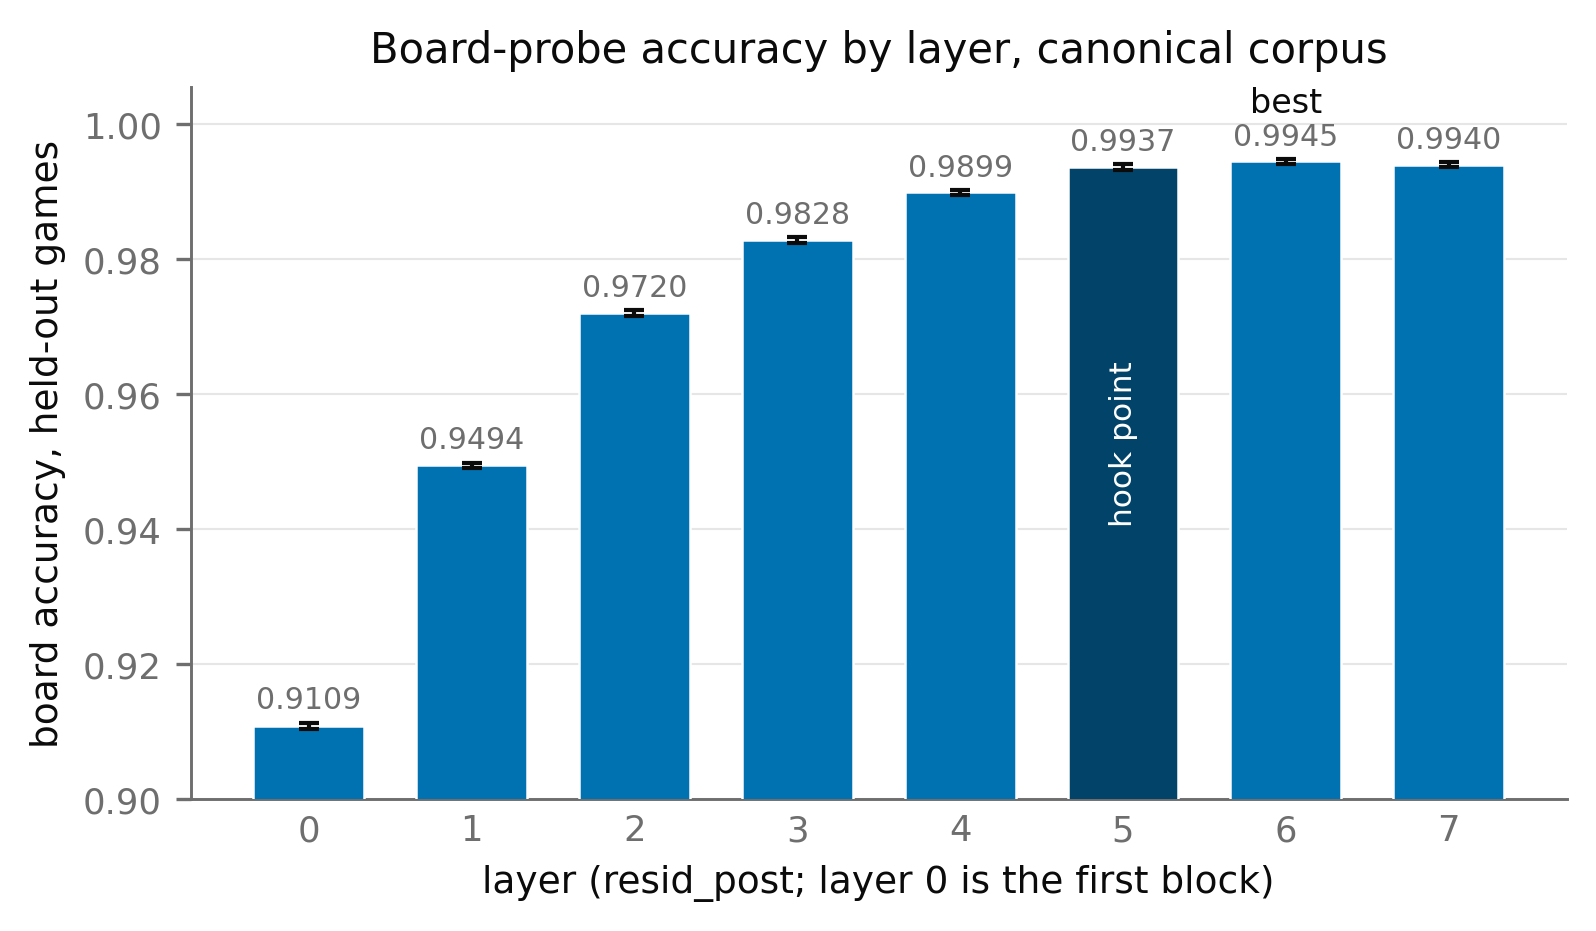
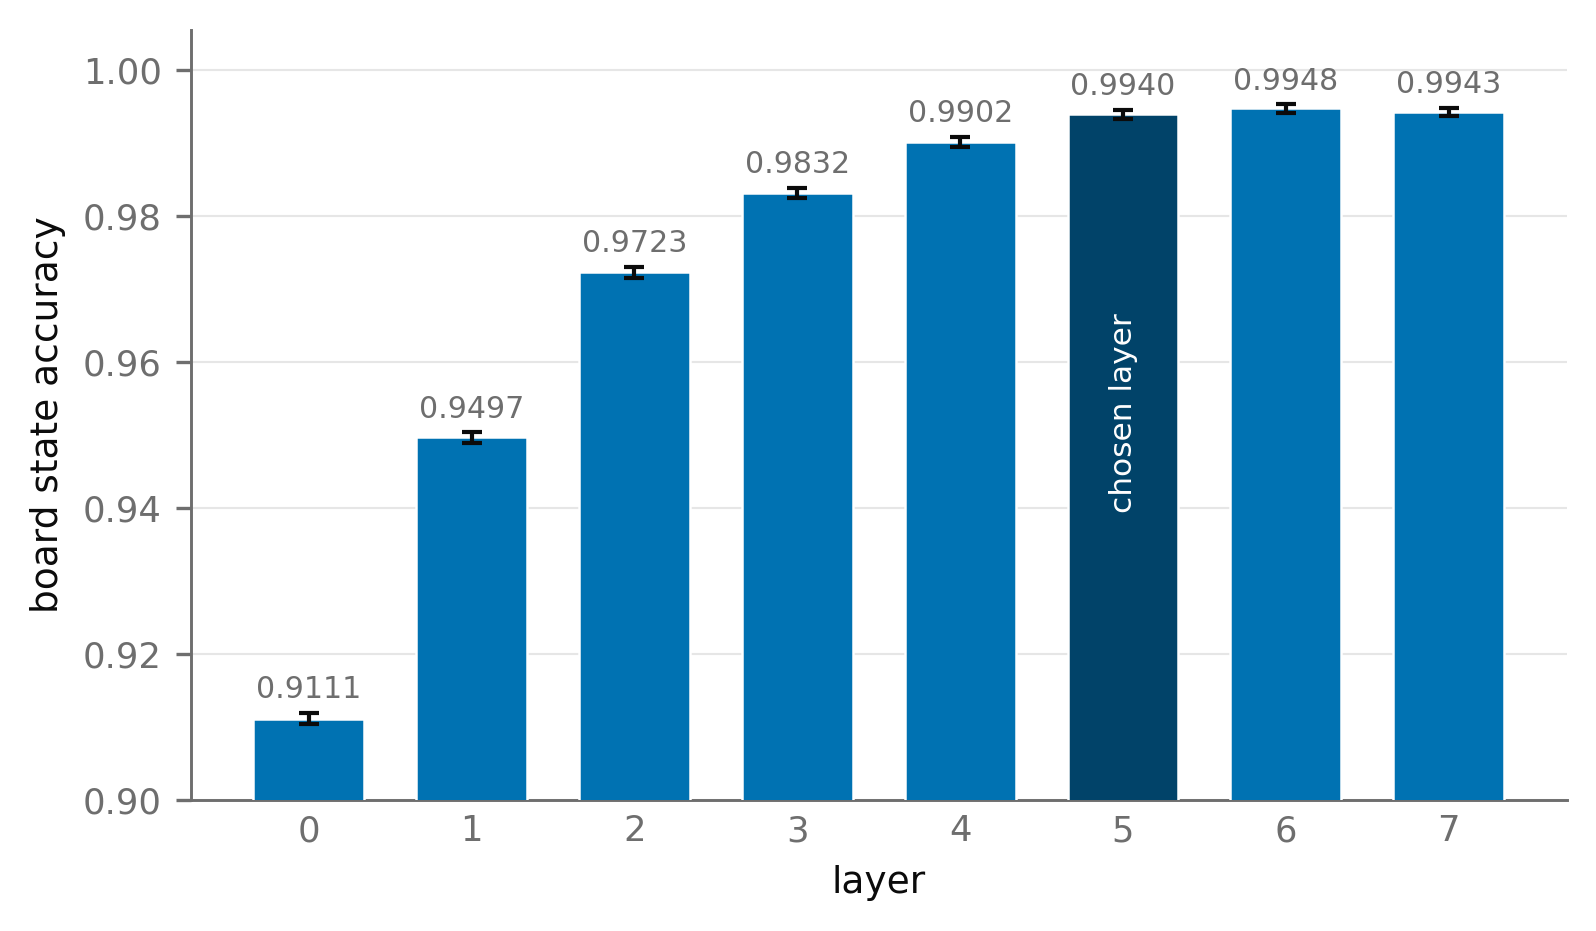
Score the board-probe sweep on 1,000 games, and strip the panel
The sweep scored all 3,000 test games; it now scores the first 1,000 of that
permuted split. Accuracies move by 2.5-3.5e-4 and the CIs widen by ~sqrt(3);
layer 6 still leads layer 5 by ~0.0008, so nothing downstream reads differently.

Title, the "best" mark on layer 6, and the axis qualifiers are gone, and the
layer-5 bar reads "chosen layer". That leaves the indexing base, the corpus and
the argmax off the canvas, so the study README opens with them as the caption.

diff --git a/analysis/board_probe_sweep/layer_sweep.py b/analysis/board_probe_sweep/layer_sweep.py
@@ -1,9 +1,10 @@
 """Where the board state is linearly readable, under the canonical probe.
 
-One bar per residual-stream layer: the accuracy of `probes.load.board(layer)` on the
-canonical corpus's test games, 3-way {empty, theirs, mine} over all 64 squares. The
-saved cards already carry a test accuracy; this re-measures it to attach an interval
-and a null, neither of which a single scalar per layer can supply.
+One bar per residual-stream layer: the accuracy of `probes.load.board(layer)` on 1,000
+of the canonical corpus's test games, 3-way {empty, theirs, mine} over all 64 squares.
+The saved cards already carry a test accuracy over the whole test split; this
+re-measures it to attach an interval and a null, neither of which a single scalar per
+layer can supply.
 
 Positions inside a game share a board, so the interval is a cluster bootstrap over
 test GAMES, not over rows. The null is the per-square majority class, fit on the train
@@ -32,6 +33,7 @@ from spade.probes.train import BATCH, activations, corpus, game_split, rows
 HERE = Path(__file__).resolve().parent
 LAYERS = range(8)
 SEED = 42
+N_TEST_GAMES = 1000     # of the split's 3000; the head of a permutation, so still uniform
 N_BOOT = 1000
 
 
@@ -68,6 +70,7 @@ def majority_null(y: torch.Tensor, train: torch.Tensor, test: torch.Tensor,
 def measure(device: str) -> pd.DataFrame:
     y, games, n_games = corpus()
     fit_games, _, test_games = game_split(n_games, SEED)
+    test_games = test_games[:N_TEST_GAMES]
     train, test = rows(games, fit_games), rows(games, test_games)
     game_of_row, uniq = pd.factorize(games[test].numpy())
     totals = np.bincount(game_of_row, weights=np.full(len(test), y.shape[1]),
@@ -117,20 +120,16 @@ def draw(table: pd.DataFrame, camera_ready: bool) -> Path:
         ax.text(r.layer, r.hi + 0.0012, f"{r.accuracy:.4f}", ha="center", va="bottom",
                 fontsize=7.2, color=MUTED, zorder=4)
 
-    best = bars.loc[bars.accuracy.idxmax()]
-    ax.text(best.layer, 1.0032, "best", ha="center", va="center", fontsize=8, color=INK)
     ax.text(probes.LAYER, bars.accuracy.min() * 0.5 + 0.5 * bars.accuracy.max(),
-            "hook point", rotation=90, ha="center", va="center", fontsize=7.5,
+            "chosen layer", rotation=90, ha="center", va="center", fontsize=7.5,
             color="white", zorder=5)
 
     ax.set_ylim(0.90, 1.0055)
     ax.set_xticks(list(LAYERS))
-    ax.set_xlabel("layer (resid_post; layer 0 is the first block)")
-    ax.set_ylabel("board accuracy, held-out games")
+    ax.set_xlabel("layer")
+    ax.set_ylabel("board state accuracy")
     ax.grid(axis="x", visible=False)
     ax.tick_params(axis="x", length=0)
-    if not camera_ready:
-        ax.set_title("Board-probe accuracy by layer, canonical corpus")
     fig.tight_layout()
     return save_figure(fig, HERE / "figures" / "board_layer_sweep", camera_ready)
 

diff --git a/analysis/board_probe_sweep/README.md b/analysis/board_probe_sweep/README.md
@@ -2,8 +2,10 @@
 
 Where in OthelloGPT's residual stream is the board state linearly readable, measured
 with the probes every study in this repo now reads through `spade.probes.load.board`.
-One bar per `resid_post` layer; 3-way {empty, theirs, mine} accuracy over all 64
-squares, mover-relative, on the canonical corpus's held-out **games**.
+One bar per `resid_post` layer, **layer 0 being the first block**; 3-way {empty, theirs,
+mine} accuracy over all 64 squares, mover-relative, on **n = 1,000 held-out games**
+(58,000 positions). The panel carries no title and states the indexing base nowhere on
+its axes, so this paragraph is its caption.
 
 This is the canonical-probe answer to the question `analysis/linear_probe/` asked with
 the retired ARENA fit. That study stays as the record of what it measured (0.9919 at
@@ -15,9 +17,9 @@ probe anything currently loads.
 ## What is measured
 
 `probes.load.board(layer)` is loaded, not refit. Its saved card already carries a test
-accuracy, and this study reproduces it (`card_test_accuracy` in the CSV is that number,
-beside the one measured here) — the point of re-measuring is the two things a scalar
-cannot carry:
+accuracy over the full 3,000-game split (`card_test_accuracy` in the CSV, beside the one
+measured here); the two agree to 2.5-3.5 x 10^-4 at every layer, which is the subsample's
+own noise. The point of re-measuring is the two things a scalar cannot carry:
 
 - **An interval.** Positions inside a game share a board, so the bootstrap resamples
   **test games**, not rows. 1,000 resamples, 95% percentile CI.
@@ -26,7 +28,9 @@ cannot carry:
   would make it a ceiling.
 
 The split is `probes.train.game_split` at seed 42 — the same partition the probes were
-fit under, so the test games here are test games there.
+fit under, so the test games here are test games there. `N_TEST_GAMES = 1000` takes the
+head of that split's 3,000; the split is a permutation, so the head is already a uniform
+random subsample and needs no second draw.
 
 ## The cut baseline, and why
 
@@ -46,9 +50,10 @@ row in the CSV rather than a line on the panel.
 
 - Bars are the canonical board probe at each layer, one hue: it is one probe class over
   eight input spaces, not eight conditions.
-- **Layer 5 is drawn darker** — the project's hook point, not the argmax. Layer 6 is the
-  argmax and beats it by ~0.001, inside what a single-seed sweep can resolve, which is
-  why the hook point did not move.
+- **Layer 5 is drawn darker and labelled "chosen layer"** — the project's hook point,
+  not the argmax. Layer 6 is the argmax and beats it by ~0.001, inside what a
+  single-seed sweep can resolve, which is why the hook point did not move. The panel
+  does not mark the argmax; that reading belongs here, not on the bars.
 - Error bars: 95% cluster bootstrap over held-out games, 1,000 resamples.
 - **Seed 42 only.** The interval is over held-out data and says nothing about the spread
   over fits. The ARENA study's five-seed SD was 3–8 × 10⁻⁵, so fit noise is not what

diff --git a/PROCESS.md b/PROCESS.md
@@ -6,6 +6,21 @@ Keep entries short; the code is the source of truth for *what*, this is the *why
 
 ---
 
+## board_layer_sweep is now n = 1,000 games, and the panel carries no title (2026-08-25)
+
+`analysis/board_probe_sweep/` scored all 3,000 test games; it now scores the first 1,000
+(`N_TEST_GAMES`, the head of a permuted split, so still a uniform subsample). Accuracies move
+by 2.5-3.5 x 10^-4 -- layer 5 0.99367 -> 0.99397, layer 6 0.99452 -> 0.99478 -- and the CIs
+widen by ~sqrt(3); layer 6 still leads layer 5 by ~0.0008 and the ordering is unchanged, so
+nothing downstream reads differently. The two-thirds of held-out data dropped bought no
+statistical gain; the smaller n was asked for.
+
+**The panel stopped self-describing.** Title deleted, axes cut to "layer" and "board state
+accuracy", the "best" annotation on layer 6 removed, "hook point" -> "chosen layer". That
+strips the indexing base, the corpus, and the argmax off the canvas, so
+`board_probe_sweep/README.md` opens with them and says it is the caption -- consistent with
+"no gray note blocks on figures", but it means the PNG alone no longer states its own n.
+
 ## threshold_detection's two panels were two corpora (2026-08-24)
 
 `changepoint_localization/figures/threshold_detection.png` drew (a) from
